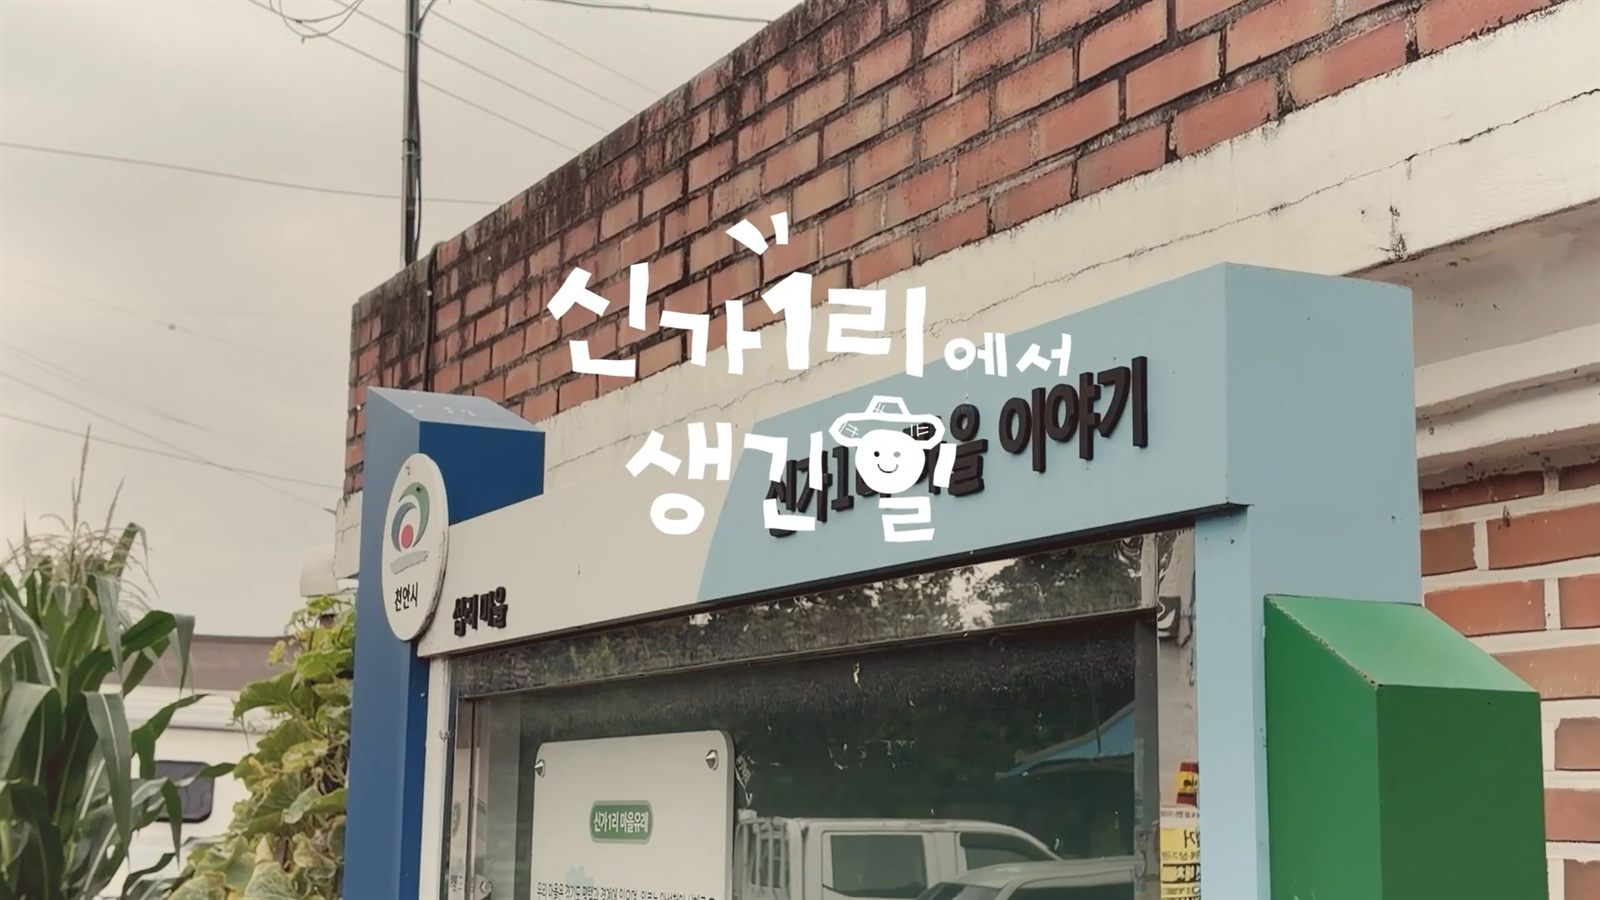
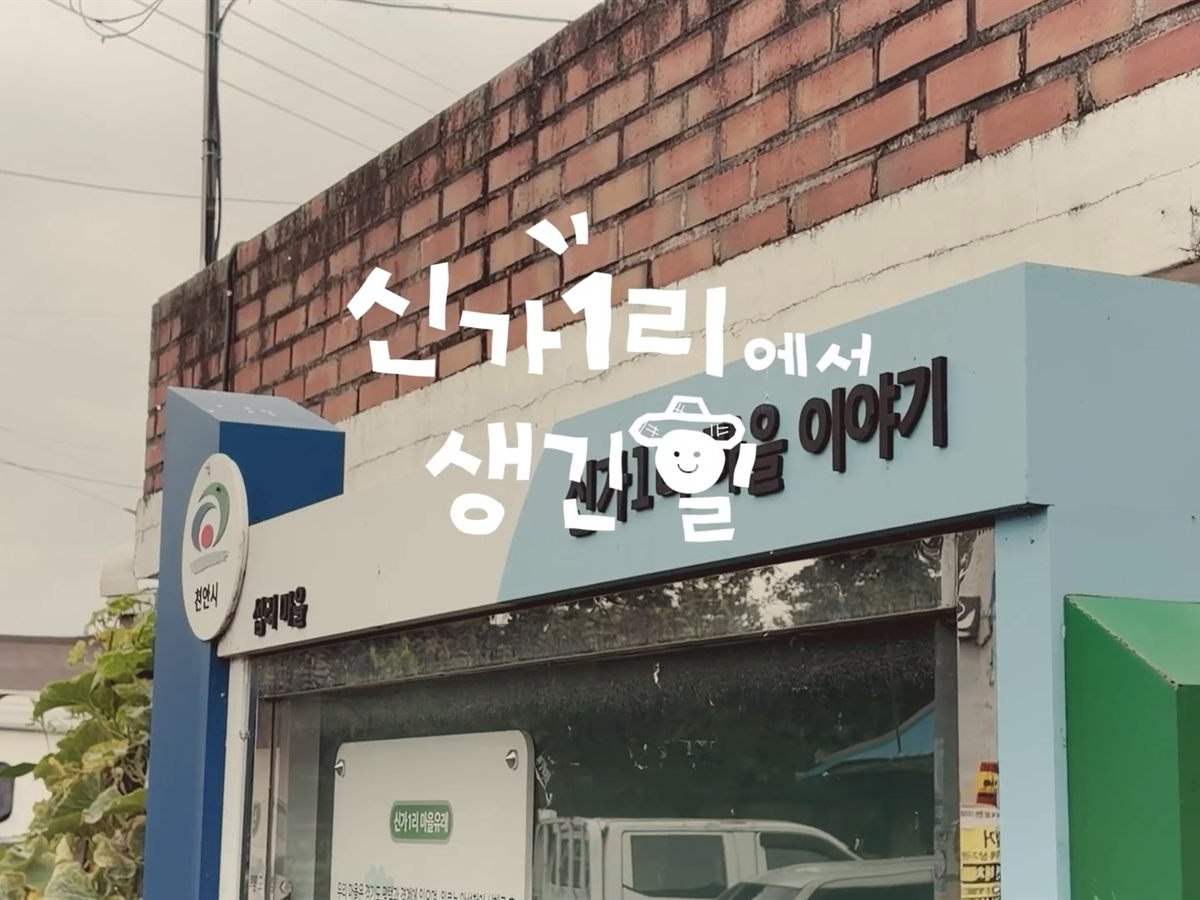
Cover photo: crop to 4:3, fix tall render
The width/height attrs on loaded <img> forced height:900px, overriding
aspect-ratio. Set height:auto so photos keep 4:3. Cover pre-cropped 1200x900.

diff --git a/index.html b/index.html
@@ -186,8 +186,8 @@
     display:block; width:100%; object-fit:cover;
     border:2.5px solid var(--ink); border-radius:0; background:#fff;
   }
-  .shot img{ aspect-ratio:4/3; filter:saturate(.94) contrast(.98); }
-  .shot.tall img{ aspect-ratio:1/1; }
+  .shot img{ height:auto; aspect-ratio:4/3; filter:saturate(.94) contrast(.98); }
+  .shot.tall img{ height:auto; aspect-ratio:1/1; }
   .shot .ph{
     aspect-ratio:16/9;
     display:flex; flex-direction:column; align-items:center; justify-content:center; gap:12px;
